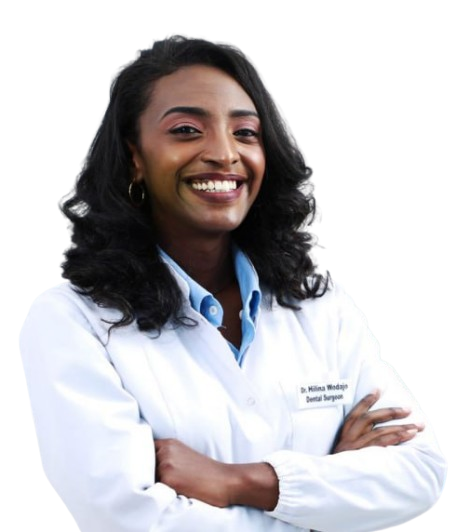
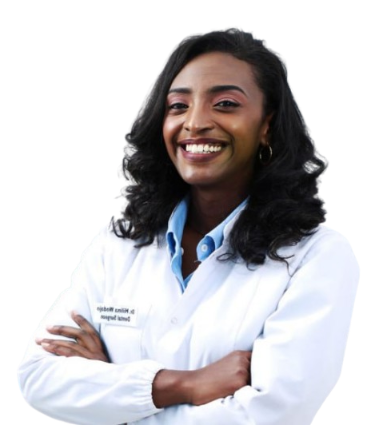
fix: working on hero section

diff --git a/apps/portal/src/app/components/heros/hero.tsx b/apps/portal/src/app/components/heros/hero.tsx
@@ -1,33 +1,33 @@
 "use client";
 
-import { Button, Image } from "@mantine/core";
+import { Box, Button, Card, Grid, Image, Text, Title } from "@mantine/core";
 
 export function Hero() {
   return (
     <div className="relative w-screen m-0 p-0 h-[700px]">
       <div className="absolute inset-0">
         <Image
-          src={"hero1.jpg"}
+          src={"hero2.png"}
           alt="Hero background"
-          style={{ filter: "blur(1px)" }}
+          style={{ filter: "blur(2px)" }}
           className="w-full h-full object-cover"
         />
       </div>
 
-      <div className="relative grid grid-cols-1 md:grid-cols-2 h-full z-10 px-4 md:px-10">
-        <div className="flex flex-col justify-center items-start space-y-4 text-white px-4 md:px-[100px]">
-          <span className="text-md md:text-lg font-bold  text-primary">
+      <Box className="relative grid grid-cols-1 md:grid-cols-2 h-full z-10 px-4 md:px-10">
+        <Box className="flex flex-col justify-center items-start space-y-4 text-white px-4 md:px-[100px]">
+          <Title className="text-xl md:text-lg font-bold  text-primary-900">
             Dental Perfection
-          </span>
-          <h1 className="text-3xl md:text-5xl font-bold leading-tight">
+          </Title>
+          <Title className="text-3xl md:text-5xl font-bold leading-tight">
             Creating Brighter <br /> Smiles Every Day
-          </h1>
-          <p className="text-gray-600 max-w-lg text-sm md:text-base">
+          </Title>
+          <Text className="text-gray-600 max-w-lg text-sm md:text-base">
             Lorem ipsum dolor sit amet, consectetur adipiscing elit, sed do
             eiusmod tempor incididunt ut labore et dolore magna aliqua. Ut enim
             ad minim veniam, quis nostrud exercitation ullamco laboris nisi ut.
-          </p>
-          <div className="flex flex-col md:flex-row space-y-2 md:space-y-0 md:space-x-4">
+          </Text>
+          <Box className="flex flex-col md:flex-row space-y-2 md:space-y-0 md:space-x-4">
             <Button
               color="var(--mantine-color-primary-7)"
               size="md"
@@ -39,17 +39,18 @@ export function Hero() {
             <Button size="md" className="rounded-md" variant="outline">
               Contact Us
             </Button>
-          </div>
-        </div>
+          </Box>
+        </Box>
 
-        <div className="flex justify-center md:justify-end items-center mt-6 md:mt-0">
+        <Box className="flex justify-center md:justify-end items-center mt-6 md:mt-0">
           <Image
             src={"doc.png"}
             alt="Doctor"
-            className="h-auto w-3/4 md:h-full md:w-auto object-cover -scale-x-100"
+            className="h-auto w-3/4  md:w-auto h-full"
+            // style={{ height: "80%" }}
           />
-        </div>
-      </div>
+        </Box>
+      </Box>
     </div>
   );
 }
